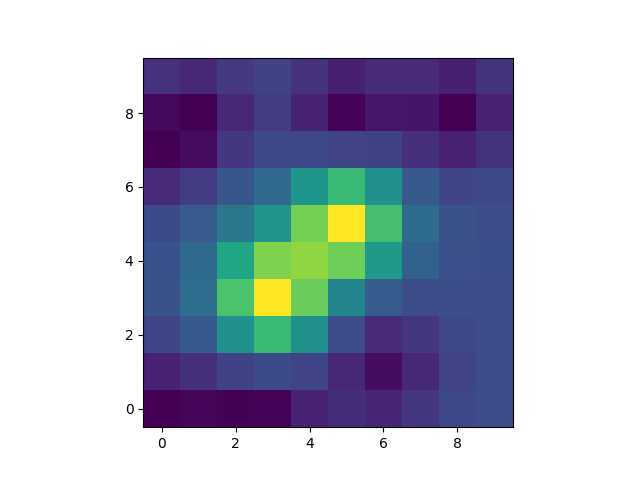
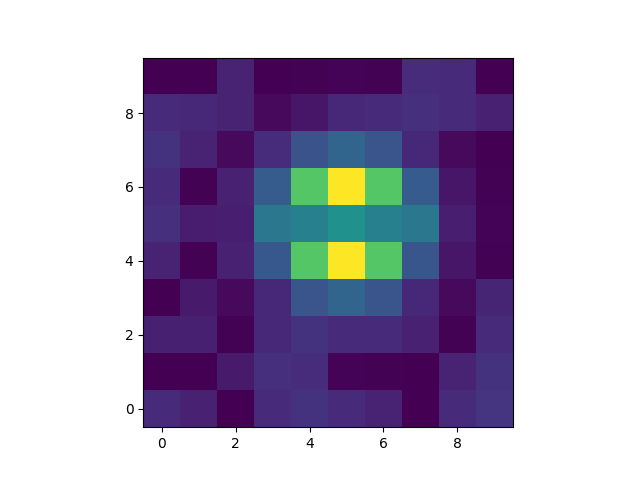
RMSE of kriging graphed in web visualisation
Use MESA visualisation to chart performance metrics. See if MESA can support continuous time, as opposed to running in discrete time intervals.

diff --git a/mesa_spatial_sampling_MRS/model.py b/mesa_spatial_sampling_MRS/model.py
@@ -138,8 +138,8 @@ class Robot(Agent):
 
                 # Perform kriging interpolation from sampled values
                 # Define parameters (Explanations are in kriging.py)
-                xgrid = np.arange(1, self.model.width + 1, 1)
-                ygrid = np.arange(1, self.model.height + 1, 1)
+                xgrid = np.arange(0, self.model.width, 1)
+                ygrid = np.arange(0, self.model.height, 1)
 
                 # print(np.shape(self.model.sampled))
                 sampled_cells = np.where(np.array(self.model.sampled) != -1)
@@ -166,6 +166,9 @@ class Robot(Agent):
                     # Run prediction
                     m, v = predict_by_kriging(xgrid, ygrid, x_arr, y_arr, o_arr, variogram=variogram)
 
+                    self.model.RMSE = np.mean(np.power(np.array(self.model.gaussian) - m, 2))
+                    print("RMSE:", self.model.RMSE)
+
                     # Export as images
                     plt.figure('Mean')
                     plt.imshow(m, origin="lower")
@@ -179,9 +182,9 @@ class Robot(Agent):
 
                     # Print indices of x highest variance cells (candidate goals)
                     # where x is the number of robots
-                    candidate_goals = [[v_ind_sorted[1][-r],
-                                       v_ind_sorted[0][-r]] for r in range(1, len(self.model.robots))]
-                    print(candidate_goals)
+                    self.model.candidate_goals = [[v_ind_sorted[1][-r],
+                                                  v_ind_sorted[0][-r]] for r in range(1, len(self.model.robots) + 1)]
+                    print("Candidate goals:", self.model.candidate_goals)
 
     # Assigns a goal to the robot to sample a value at the given goal position
     def sample_pos(self, goal_pos):
@@ -215,6 +218,10 @@ class SpatialSamplingModel(Model):
         self.width = width
         self.num_robots = num_robots
         self.robots = []
+        self.RMSE = 0
+
+        self.data_collector = DataCollector(model_reporters={"RMSE": "RMSE"})
+
         # Agents are instantiated simultaneously
         self.schedule = SimultaneousActivation(self)
         # The grid is multi-layered, and does not loop at the edges
@@ -226,6 +233,7 @@ class SpatialSamplingModel(Model):
         self.sampled = np.ones((width, height)) * -1
         self.step_num = 0
         self.num_goals = 0
+        self.candidate_goals = []
         self.all_cells_assigned = False
 
         # Place UnsampledCell agents for visualisation of unsampled cells
@@ -273,6 +281,7 @@ class SpatialSamplingModel(Model):
                 # If the current robot in the iteration has no goal, assign it one at an unsampled cell
                 if not agent.goal:
                     goal_pos = (random.randrange(0, self.width), random.randrange(0, self.height))
+
                     if goal_pos is not None:
                         # Create a list of all other robots' goals to check for and reassign any duplicate goals
                         current_goal_cells = []
@@ -340,6 +349,8 @@ class SpatialSamplingModel(Model):
                         # robot
                         agent.sample_pos(goal_pos)
         print("")
+
+        self.data_collector.collect(self)
 
         # Stop the simulation when all cells have been sampled by the robots
         if -1 not in self.sampled:

diff --git a/mesa_spatial_sampling_MRS/server.py b/mesa_spatial_sampling_MRS/server.py
@@ -20,14 +20,18 @@ def draw(agent):
 width = 10
 height = 10
 canvas_element = CanvasGrid(draw, width, height, 500, 500)
+RMSE_chart = ChartModule([{"Label": "RMSE",
+                           "Color": "Black"}],
+                         data_collector_name="data_collector",
+                         canvas_height=500)
 
 # Model parameterised and instantiated
 model_params = {
     "height": height,
     "width": width,
-    "num_robots": 10
+    "num_robots": 3
 }
 
 server = ModularServer(
-    SpatialSamplingModel, [canvas_element], "Spatial Sampling MRS", model_params
+    SpatialSamplingModel, [canvas_element, RMSE_chart], "Spatial Sampling MRS", model_params
 )
